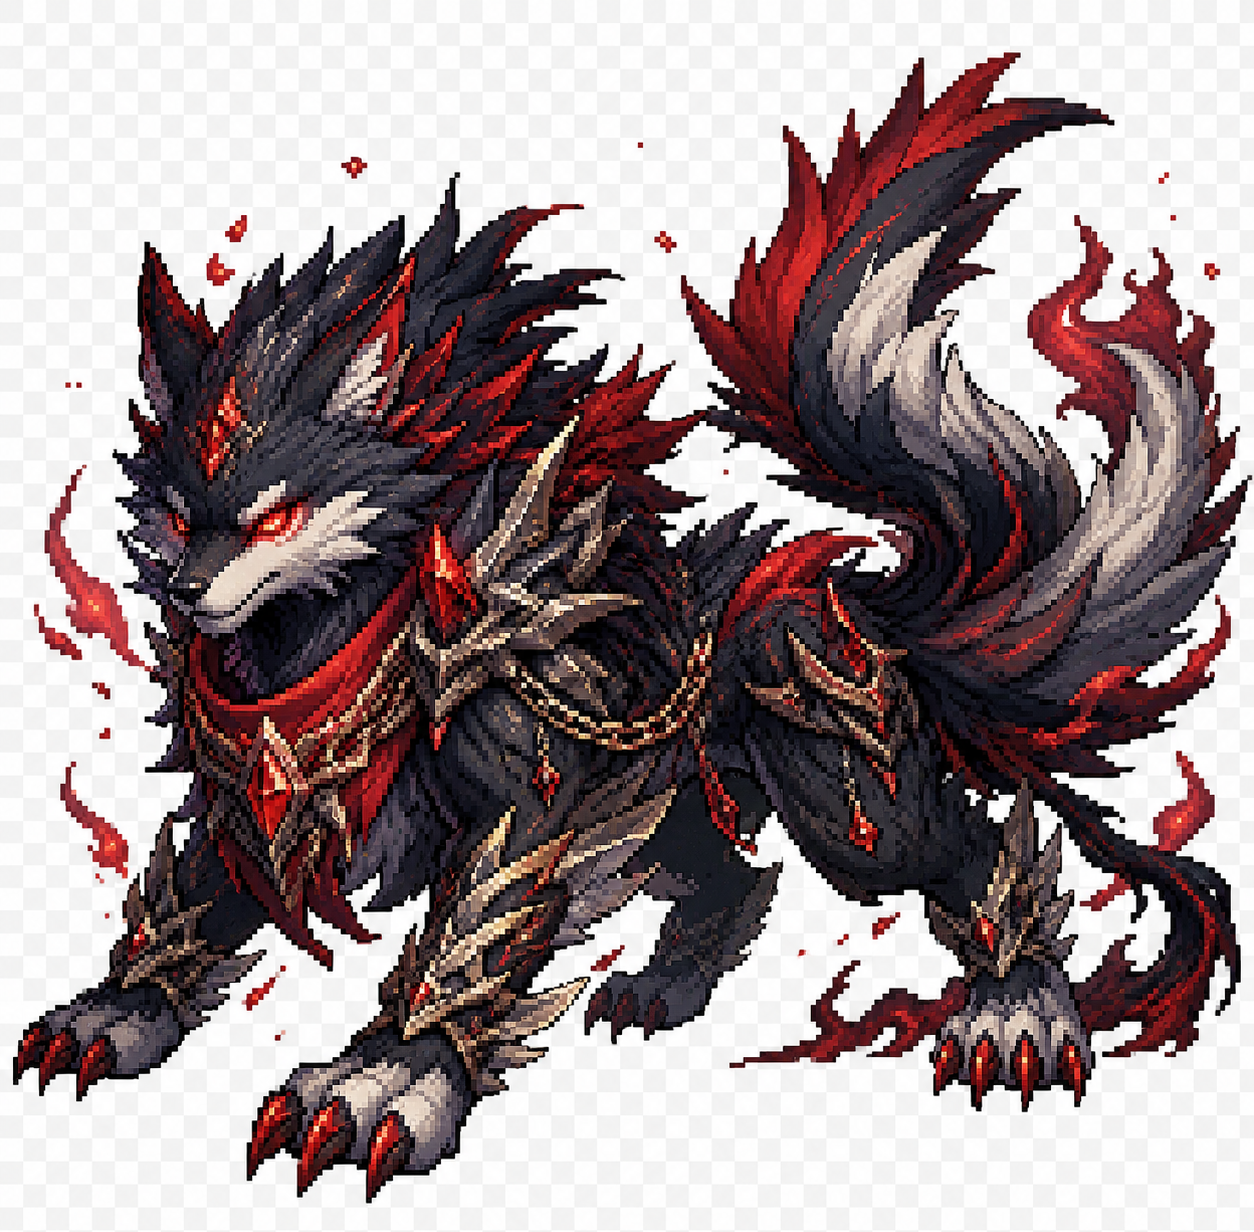
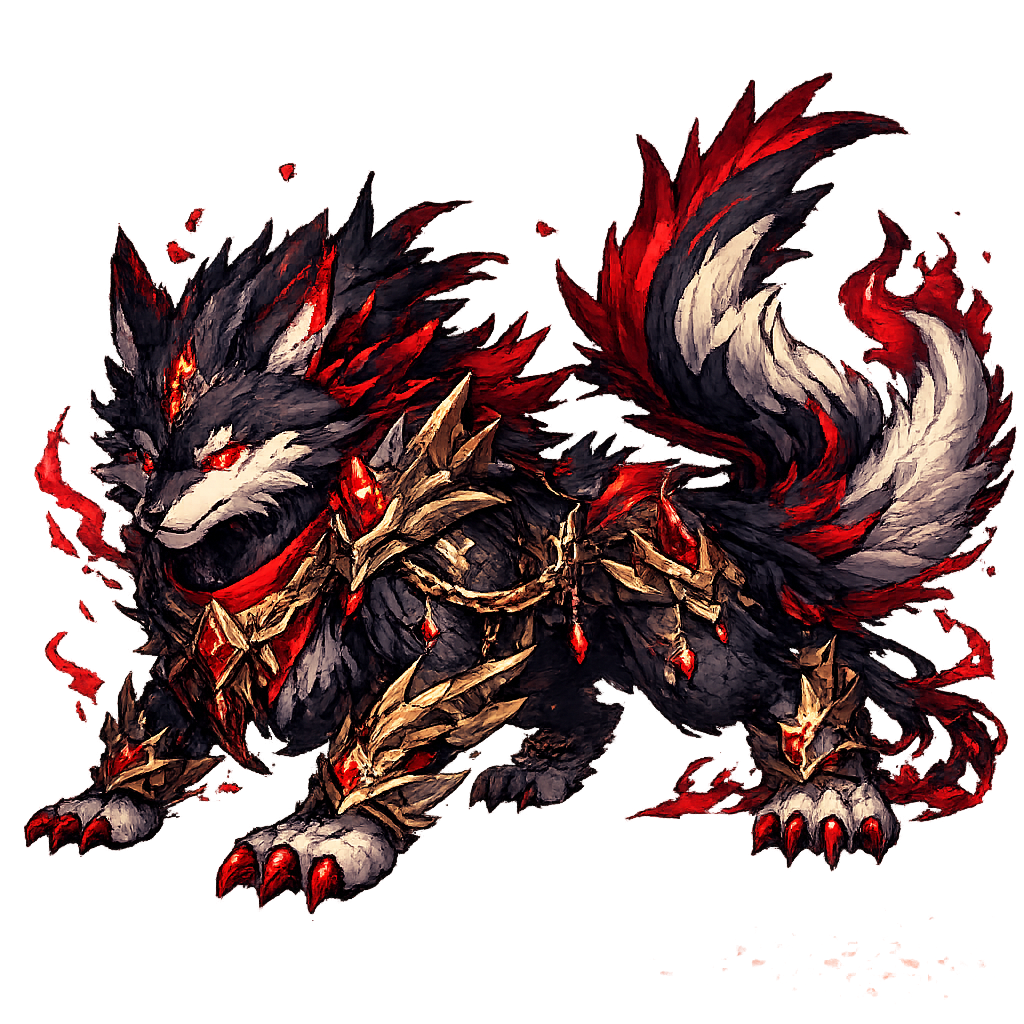
fix(pets): 画像差し替え時のキャッシュ対策(?v=版数)＋進化画像を更新
- 同名で差し替えた画像が古いままになる問題に対し、静的画像へ ?v=ASSET_VER
  を付与してキャッシュ無効化(差し替え時は ASSET_VER を上げる)
- 差し替え済みの voruganohu.png をコミット

diff --git a/src/pages/Pets.jsx b/src/pages/Pets.jsx
@@ -1,7 +1,7 @@
 import { useEffect, useState } from 'react'
 import { useNavigate } from 'react-router-dom'
 import { supabase } from '../supabase'
-import { SPECIES, STARTERS, SKILLS, MAX_SKILL_SLOTS, SHOP_ITEMS, INV_MAX, petStats, speciesLabel, speciesEmoji, expForLevel, affectionConversion, AFFECTION_MAX, atkLabel, canEvolve, petMaxLevel, evolvedName, petImage, evolvedImage } from '../constants/pets'
+import { SPECIES, STARTERS, SKILLS, MAX_SKILL_SLOTS, SHOP_ITEMS, INV_MAX, petStats, speciesLabel, speciesEmoji, expForLevel, affectionConversion, AFFECTION_MAX, atkLabel, canEvolve, petMaxLevel, evolvedName, petImage, evolvedImage, assetSrc } from '../constants/pets'
 
 const SUPABASE_URL = import.meta.env.VITE_SUPABASE_URL
 // ペット画像はペットページでアップロードしたものだけを使う（avatars/<uid>/pets/ 配下）
@@ -176,7 +176,7 @@ export default function Pets() {
         <Wrap nav={nav} msg={msg}>
           <h3 style={{ color: '#aa88ff', margin: '12px 0' }}>名前をつけよう</h3>
           <div style={{ border: '1px solid #335588', background: '#001026', padding: 16, textAlign: 'center' }}>
-            {naming.image ? <img src={naming.image} alt="" style={{ width: 84, height: 84, objectFit: 'cover', borderRadius: 6 }} /> : <div style={{ fontSize: 56 }}>{naming.emoji}</div>}
+            {naming.image ? <img src={assetSrc(naming.image)} alt="" style={{ width: 84, height: 84, objectFit: 'cover', borderRadius: 6 }} /> : <div style={{ fontSize: 56 }}>{naming.emoji}</div>}
             <div style={{ color: '#6699cc', fontSize: 11, margin: '6px 0' }}>{naming.label}　HP{st.maxHp} / {atkLabel(naming)}{st.atk} / 防{st.def} / 特防{st.mdef}</div>
             <input value={nick} onChange={(e) => setNick(e.target.value)} maxLength={12} placeholder={naming.label}
               style={{ width: '70%', padding: 8, margin: '10px 0', background: '#000818', border: '1px solid #335588', color: '#cce6ff', fontFamily: 'monospace', textAlign: 'center', fontSize: 14 }} />
@@ -197,7 +197,7 @@ export default function Pets() {
             const st = petStats({ species: sp.id, level: 1 })
             return (
               <div key={sp.id} style={{ border: '1px solid #335588', background: '#001026', padding: 10, textAlign: 'center' }}>
-                {sp.image ? <img src={sp.image} alt="" style={{ width: 56, height: 56, objectFit: 'cover', borderRadius: 6 }} /> : <div style={{ fontSize: 40 }}>{sp.emoji}</div>}
+                {sp.image ? <img src={assetSrc(sp.image)} alt="" style={{ width: 56, height: 56, objectFit: 'cover', borderRadius: 6 }} /> : <div style={{ fontSize: 40 }}>{sp.emoji}</div>}
                 <div style={{ color: '#cce6ff', marginTop: 4 }}>{sp.label}</div>
                 <div style={{ color: '#6699cc', fontSize: 11, margin: '6px 0' }}>HP{st.maxHp} / {atkLabel({ species: sp.id })}{st.atk} / 防{st.def} / 特防{st.mdef}</div>
                 <Btn onClick={() => { setNaming(sp); setNick(sp.label) }}>選ぶ</Btn>

diff --git a/src/constants/pets.js b/src/constants/pets.js
@@ -93,8 +93,8 @@ export const getDungeon = (id) => DUNGEONS.find((d) => d.id === id) || DUNGEONS[
 
 // 敵の表示画像を決める（images配列があればランダムで1枚、無ければimage、どちらも無ければnull）
 export function pickEnemyImage(kind) {
-  if (kind?.images?.length) return kind.images[Math.floor(Math.random() * kind.images.length)]
-  return kind?.image || null
+  const img = kind?.images?.length ? kind.images[Math.floor(Math.random() * kind.images.length)] : (kind?.image || null)
+  return assetSrc(img)
 }
 
 export function enemiesForFloor(dungeon, floor) {
@@ -156,13 +156,18 @@ export function speciesEmoji(pet) {
   if (pet?.evolved && sp.evolve) return sp.evolve.emoji || sp.emoji
   return sp.emoji || '🐾'
 }
+// 画像キャッシュ対策：public/ の画像を「同じ名前で」差し替えたら、この数字を上げると最新が表示される
+export const ASSET_VER = '2'
+// 静的画像(先頭/)にだけ ?v= を付けてキャッシュを無効化。外部URL(http...)はそのまま
+export const assetSrc = (src) => (src && src.startsWith('/') ? `${src}?v=${ASSET_VER}` : src)
+
 // 種族デフォルト画像（進化済みなら進化形イラスト）。未設定なら null
 export function speciesImage(pet) {
   const sp = SPECIES[pet?.species] || {}
-  if (pet?.evolved && sp.evolve?.image) return sp.evolve.image
-  return sp.image || null
+  const img = (pet?.evolved && sp.evolve?.image) ? sp.evolve.image : (sp.image || null)
+  return assetSrc(img)
 }
-// 進化形イラストのパス（進化時にカスタム画像を上書きするのに使う）
+// 進化形イラストの素のパス（進化時に image_url へ保存する用。表示時は petImage が ?v を付ける）
 export const evolvedImage = (pet) => SPECIES[pet?.species]?.evolve?.image || null
 // 実際に表示する画像：カスタム(image_url) 優先、無ければ種族デフォルト
-export const petImage = (pet) => pet?.image_url || speciesImage(pet)
+export const petImage = (pet) => assetSrc(pet?.image_url) || speciesImage(pet)
